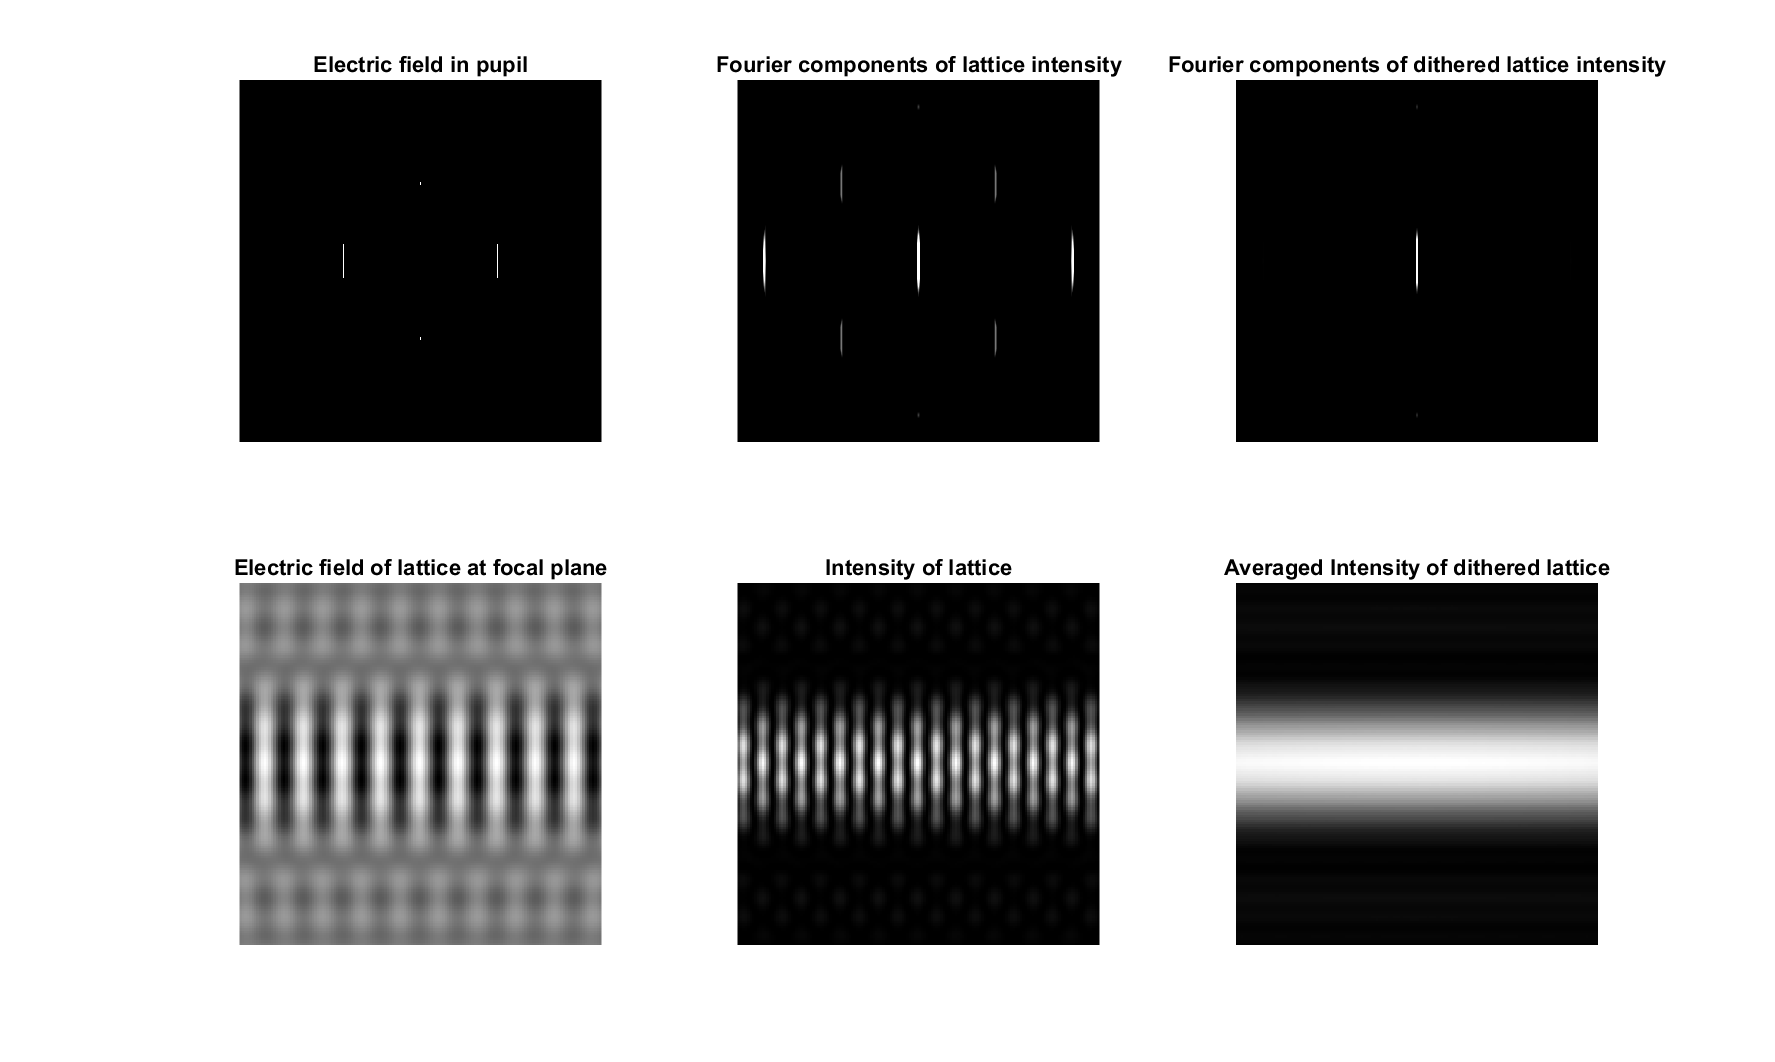
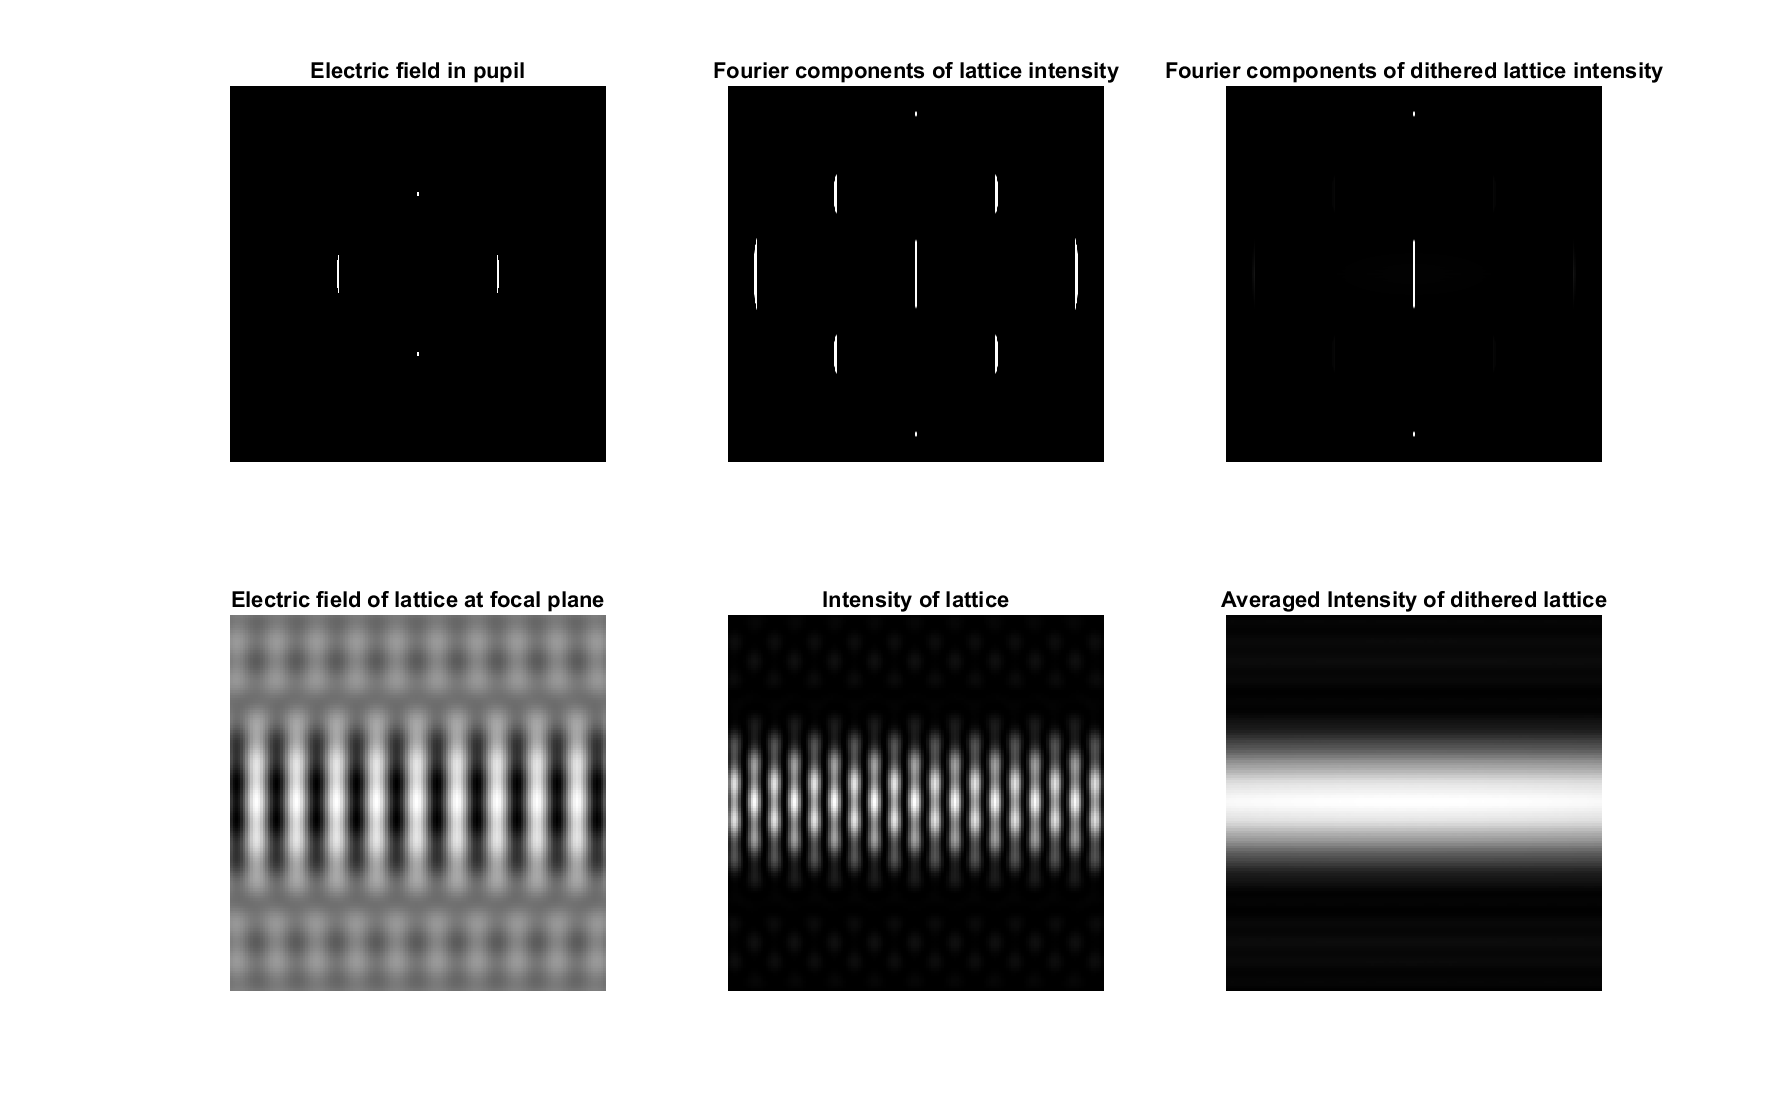
FieldSynthesis/FieldSynthesisVersusLattice.m: Adjusted caxis such that smaller components on the kz-axis are visible

diff --git a/FieldSynthesis/FieldSynthesisVersusLattice.m b/FieldSynthesis/FieldSynthesisVersusLattice.m
@@ -166,17 +166,17 @@ set(h,'Units','normalized','Position',[0 0 1 1]);
 
 % Show the mask
 subplot(2,3,1)
-imshow(latticeFourierMask(dispRange,dispRange),[]);colormap hot
+imshow(latticeFourierMask(dispRange,dispRange),[0 1e-6]);colormap hot
 title('Electric field in pupil');
 
 % Show the Fourier transform of the _intensity_ of the lattice
 subplot(2,3,2)
-imshow(abs(lattice_hat(dispRange,dispRange)),[0 1e-5]);colormap hot
+imshow(abs(lattice_hat(dispRange,dispRange)),[0 1e-6]);colormap hot
 title('Fourier components of lattice intensity');
 
 % Show the Fourier transform of the dithered lattice intensity
 subplot(2,3,3)
-imshow(abs(latticeDithered_hat(dispRange,dispRange)),[0 1e-5]);colormap hot
+imshow(abs(latticeDithered_hat(dispRange,dispRange)),[0 1e-6]);colormap hot
 title('Fourier components of dithered lattice intensity');
 
 % Show the electric field of the lattice at the focal plane
